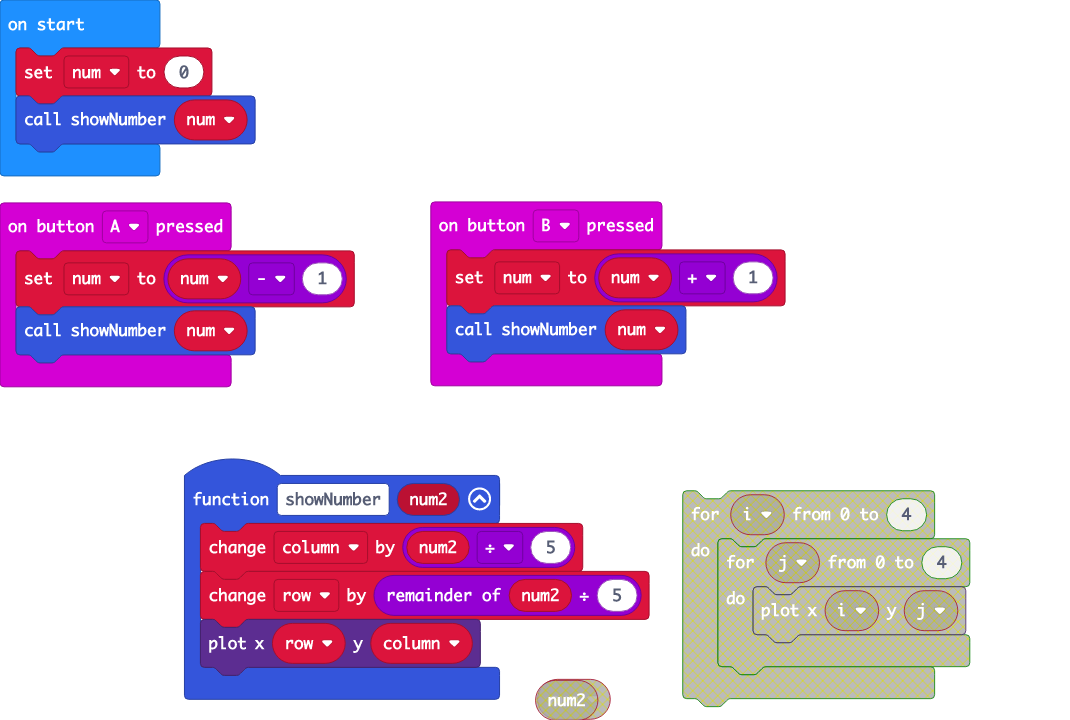
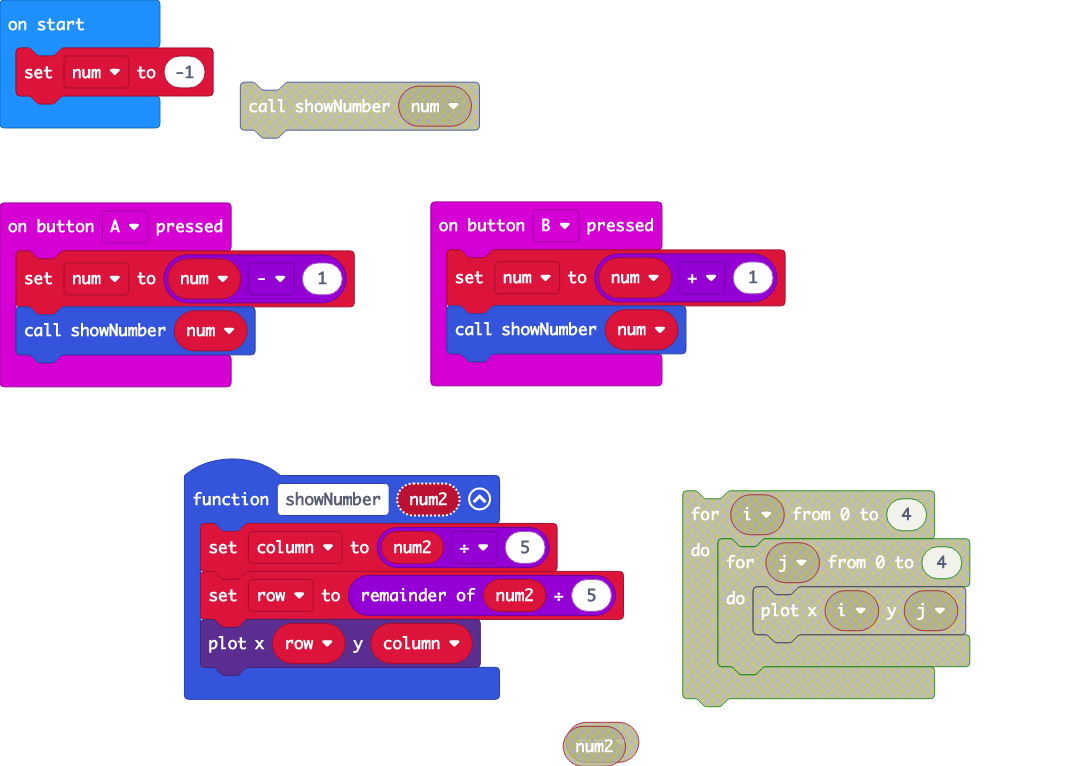
Update main.blocks, main.ts

diff --git a/main.ts b/main.ts
@@ -7,12 +7,11 @@ input.onButtonPressed(Button.B, function () {
     showNumber(num)
 })
 function showNumber (num2: number) {
-    column += num2 / 5
-    row += num2 % 5
+    column = num2 / 5
+    row = num2 % 5
     led.plot(row, column)
 }
 let row = 0
 let column = 0
 let num = 0
-num = 0
-showNumber(num)
+num = -1
